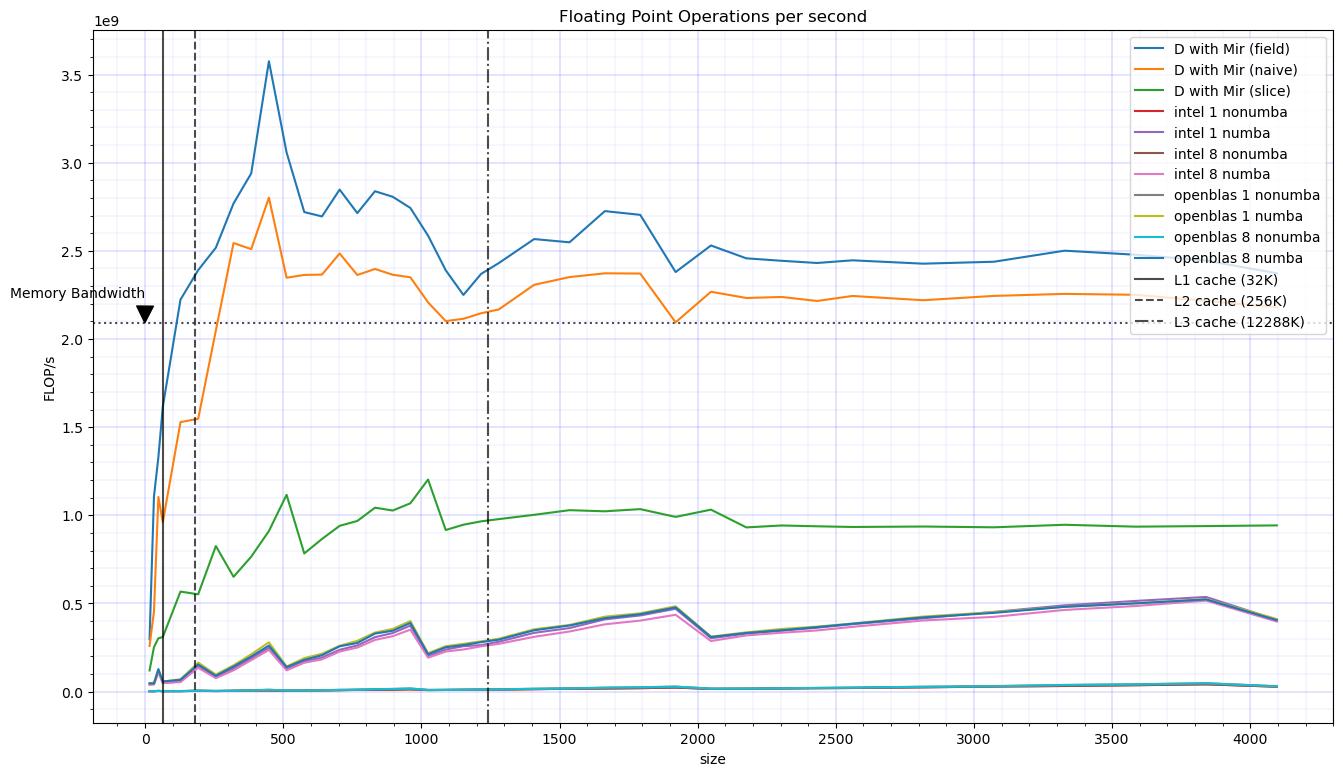
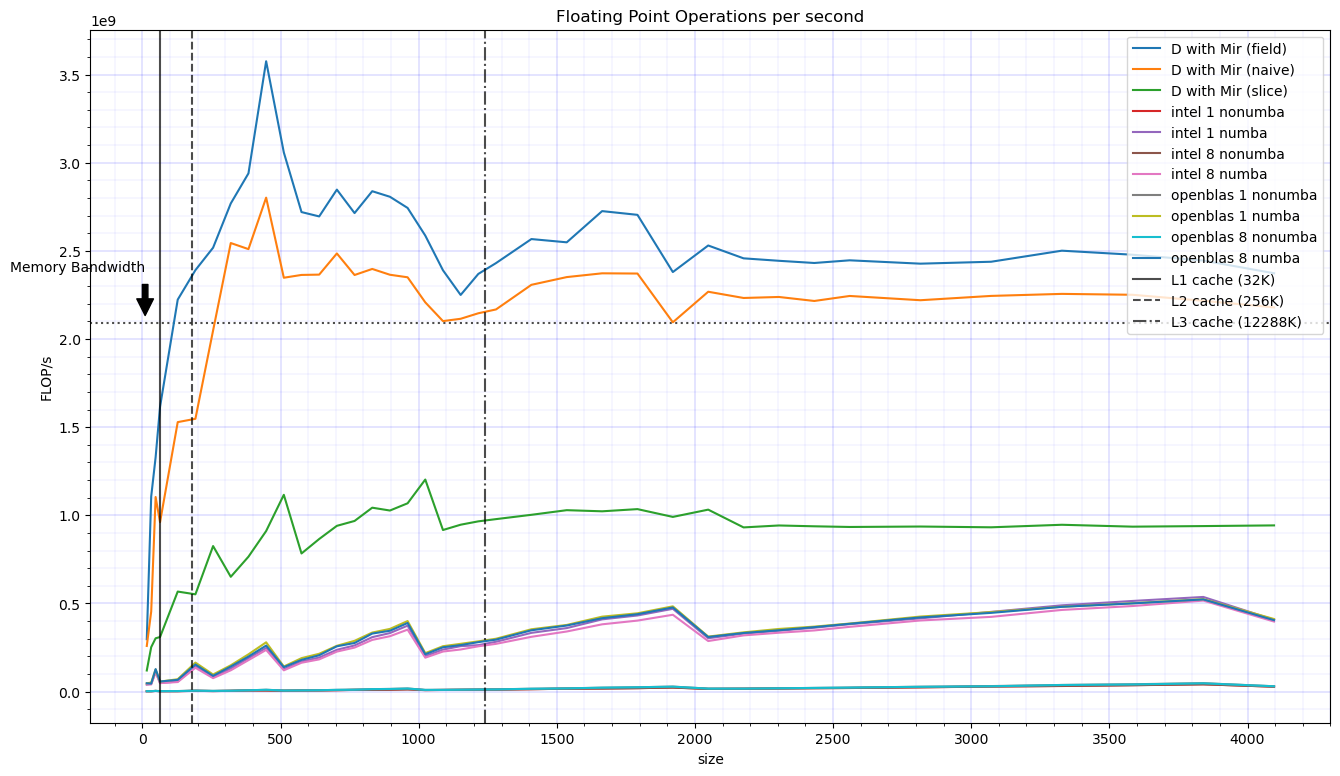
added annotation also in gsrb benchmark

diff --git a/scripts/data.py b/scripts/data.py
@@ -125,20 +125,26 @@ def plot_cache_lines(fig):
     def cache2size(x):
         return np.sqrt(x / 8)
 
-    fig.axvline(
-        cache2size(l1),
+    l1s = cache2size(l1)
+    l2s = cache2size(l2)
+    l3s = cache2size(l3)
+
+    l1_line = fig.axvline(
+        l1s,
         color='black',
         ls='-',
         label='L1 cache (32K) ',
         alpha=0.7)
+
     fig.axvline(
-        cache2size(l2),
+        l2s,
         color='black',
         ls='--',
         label='L2 cache (256K)',
         alpha=0.7)
+
     fig.axvline(
-        cache2size(l3),
+        l3s,
         color='black',
         ls='-.',
         label='L3 cache (12288K)',
@@ -147,7 +153,9 @@ def plot_cache_lines(fig):
 
 def plot_membandwidth(fig):
     """
-    calculation from there
+    Plot Memory Bandwidth line.
+
+    Calculation from there
     https://moodle.rrze.uni-erlangen.de/pluginfile.php/16786/mod_resource/content/1/09_06_04-2020-PTfS.pdf
     take triad value and divide by 16 since it produces 2 flops per 32 byte
     writen
@@ -161,12 +169,13 @@ def plot_membandwidth(fig):
         alpha=0.7)
     fig.annotate(
         'Memory Bandwidth',
-        xy=(0, mem_band),
+        xy=(10, mem_band),
         xycoords='data',
-        xytext=(0, mem_band + 0.1 * mem_band),
+        xytext=(10, mem_band + 0.15 * mem_band),
         textcoords='data',
-        arrowprops=dict(facecolor='black', shrink=0.5),
-        horizontalalignment='right', verticalalignment='top'
+        arrowprops=dict(facecolor='black', shrink=0.15),
+        horizontalalignment='right',
+        verticalalignment='center'
     )
 
 
